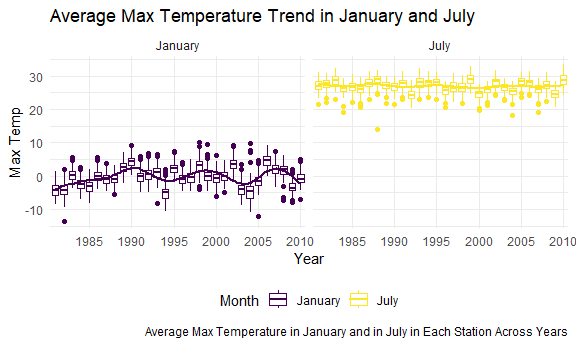
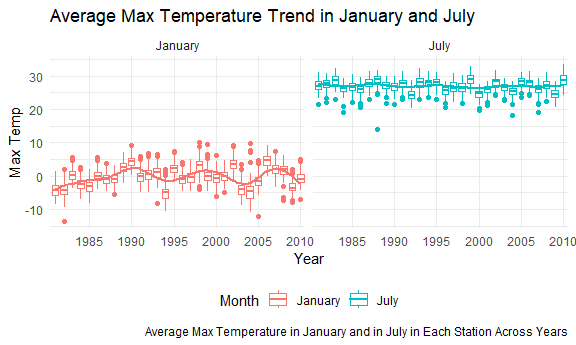
problem 1 coding part

diff --git a/p8105_hw3_xg2489.md b/p8105_hw3_xg2489.md
@@ -14,7 +14,7 @@ data("ny_noaa")
 ``` r
 ny_noaa_df = ny_noaa |>
   mutate(
-    year  = year(date),   
+    year  = factor(year(date)),   
     month = month(date),  
     day   = mday(date),
     prcp = prcp / 10,       
@@ -47,14 +47,14 @@ summary(ny_noaa_df)
     ##  3rd Qu.:    0.000   3rd Qu.:   0.00   3rd Qu.: 23.30    3rd Qu.: 11.100  
     ##  Max.   :10160.000   Max.   :9195.00   Max.   : 60.00    Max.   : 60.000  
     ##  NAs    :381221      NAs    :591786    NAs    :1134358   NAs    :1134420  
-    ##       year          month             day       
-    ##  Min.   :1981   Min.   : 1.000   Min.   : 1.00  
-    ##  1st Qu.:1988   1st Qu.: 4.000   1st Qu.: 8.00  
-    ##  Median :1997   Median : 7.000   Median :16.00  
-    ##  Mean   :1996   Mean   : 6.565   Mean   :15.73  
-    ##  3rd Qu.:2005   3rd Qu.:10.000   3rd Qu.:23.00  
-    ##  Max.   :2010   Max.   :12.000   Max.   :31.00  
-    ## 
+    ##       year             month             day       
+    ##  2010   : 159671   Min.   : 1.000   Min.   : 1.00  
+    ##  2009   : 148721   1st Qu.: 4.000   1st Qu.: 8.00  
+    ##  2008   : 122665   Median : 7.000   Median :16.00  
+    ##  2006   :  93249   Mean   : 6.565   Mean   :15.73  
+    ##  2007   :  93176   3rd Qu.:10.000   3rd Qu.:23.00  
+    ##  2005   :  92177   Max.   :12.000   Max.   :31.00  
+    ##  (Other):1885517
 
 ``` r
 ny_noaa_df |>
@@ -100,7 +100,7 @@ mean_tmax = ny_noaa_df |>
 
 ``` r
 mean_tmax |> 
-  ggplot(aes(x = factor(year), y = mean_tmax, colour = month)) + 
+  ggplot(aes(x = year, y = mean_tmax, colour = month)) + 
   geom_boxplot() +
   geom_smooth(aes(group = month), se = FALSE) + 
   facet_grid(. ~ month) +
@@ -133,25 +133,44 @@ mean_tmax |>
 <img src="p8105_hw3_xg2489_files/figure-gfm/unnamed-chunk-4-1.png" alt="" width="90%" />
 
 ``` r
-ny_noaa_df |> 
+plot_1 = ny_noaa_df |> 
   ggplot(aes(x = tmin, y = tmax)) + 
-  geom_hex() 
+  geom_hex() +
+  theme(legend.position = "right") + 
+  labs(
+    title = "Max Temperature Versus Min temperature", 
+    x = "Minimum temperature", 
+    y = "Maximum temperature"
+  ) +
+  theme(
+    legend.position = c(0.87, 0.15), 
+    legend.background = element_rect(fill="white", alpha=0.8) # 加半透明白底，避免盖住点
+  )
+```
+
+    ## Warning in element_rect(fill = "white", alpha = 0.8): `...` must be empty.
+    ## ✖ Problematic argument:
+    ## • alpha = 0.8
+
+``` r
+plot_2 = ny_noaa_df |>
+  filter(snow > 0, snow < 100) |>
+  ggplot(aes(x = snow, y = year)) +
+  geom_density_ridges() +
+  scale_y_discrete(
+    breaks = seq(1980, 2010, by = 5)
+  ) +
+  labs(x ="Snowfall (mm)", y =  "Year", title = "Snowfall by year") 
+
+plot_1 + plot_2
 ```
 
     ## Warning: Removed 1136276 rows containing non-finite outside the scale range
     ## (`stat_binhex()`).
 
+    ## Picking joint bandwidth of 3.76
+
 <img src="p8105_hw3_xg2489_files/figure-gfm/unnamed-chunk-5-1.png" alt="" width="90%" />
-
-``` r
-ny_noaa_df |>
-  filter(snow > 0, snow < 100) |>
-  ggplot(aes(x = factor(year), y = snow )) +
-  geom_point() +
-  labs(x = "Snowfall (mm)", y = "Year", title = "Snowfall (0 < snow < 100 mm) by year") 
-```
-
-<img src="p8105_hw3_xg2489_files/figure-gfm/unnamed-chunk-5-2.png" alt="" width="90%" />
 
 \#Problem 2
 
